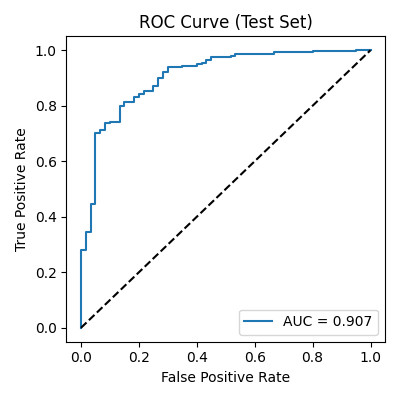
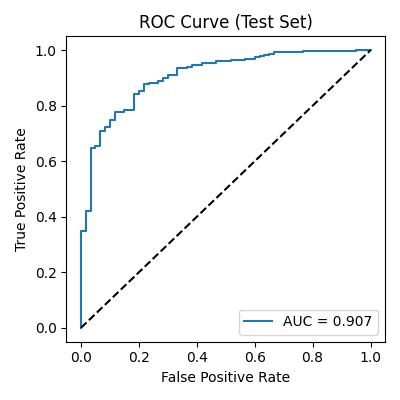
aisdgausygdygasyugsdasad

Changed region(s): [[0.18, 0.12, 0.66, 0.63], [0.75, 0.12, 0.78, 0.15]]

diff --git a/MPNN/evaluate.py b/MPNN/evaluate.py
@@ -61,14 +61,12 @@ def load_model(device: torch.device) -> MPNN:
     checkpoint = torch.load(CHECKPOINT_PATH, map_location=device)
     state = checkpoint.get("state_dict", checkpoint)
 
-    model = MPNN(
-        atom_dim=29,
-        bond_dim=7,
-        tabular_dim=7,
-        message_units=64,
-        message_steps=4,
-        num_attention_heads=8,
-        dense_units=512,
+    model = MPNN( # from optuna ouptut
+        message_units = 64, 
+        message_steps = 4, 
+        num_attention_heads = 8, 
+        dense_units = 512,
+        fusion_dropout = 0.2,
     ).to(device)
     model.load_state_dict(state, strict=False)
     return model
